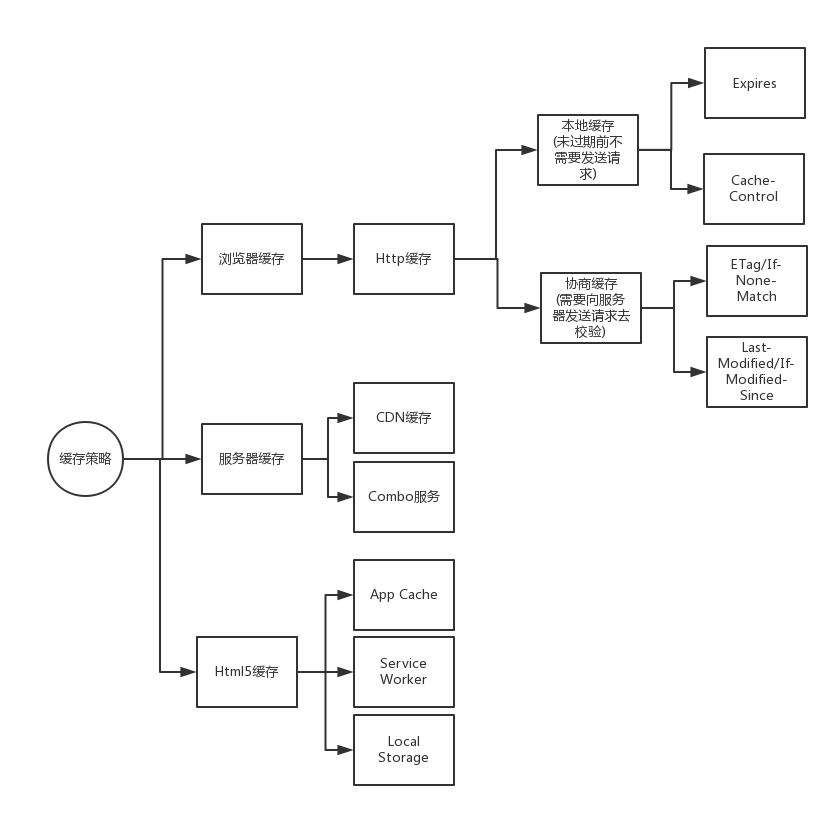
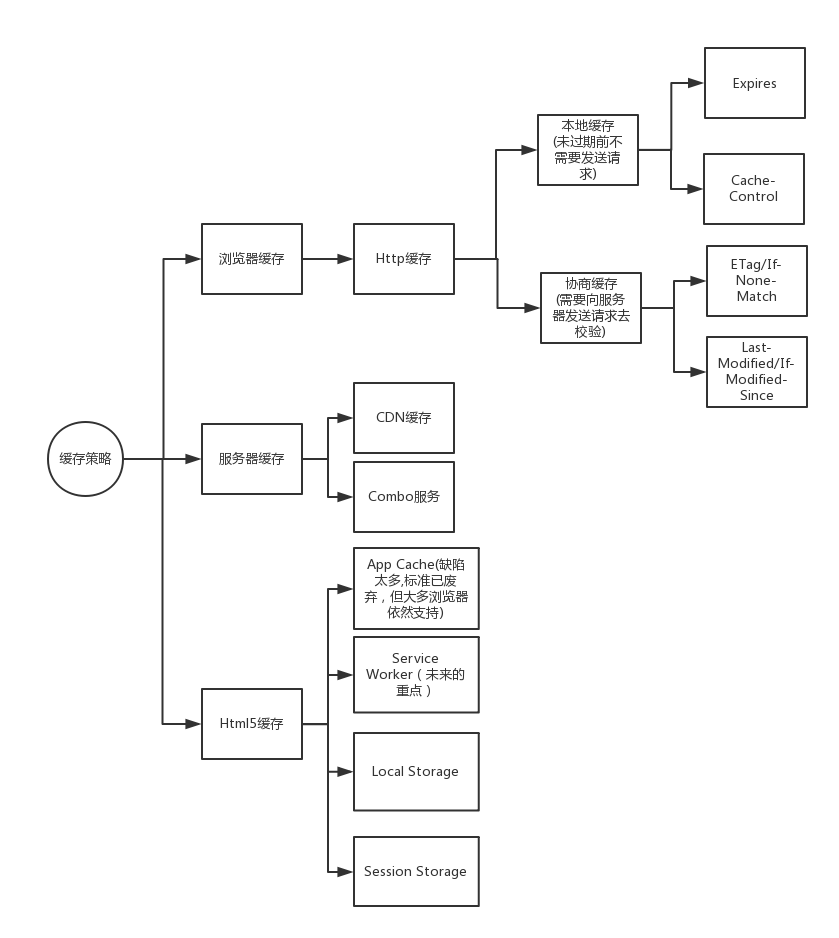
cache

diff --git a/性能优化/缓存.md b/性能优化/缓存.md
@@ -82,11 +82,14 @@ Combo服务，也就是我们在最终拼接生成页面资源引用的时候，
 4. 图像缓存时不包含版本或唯一指纹，并设置为 1 天后到期（这是Google Developers上的观点，个人认为通常可以和css采取同样的策略）。
 5. 优先使用ETag结合max-age。
 
+
 ## 其他
 [常见服务器的缓存配置样例](https://github.com/h5bp/server-configs)
 ### 200与304
 过期时间内命中缓存，浏览器不发任何 HTTP 请求，此时的状态码为200 from cache；
 如果是协商缓存则会返回304 not modified
+
+> HTML5缓存后续补充
 
 ### 参考
 [Google DevelopersHTTP缓存](https://developers.google.com/web/fundamentals/performance/optimizing-content-efficiency/http-caching?hl=zh-cn)

diff --git a/README.md b/README.md
@@ -3,7 +3,7 @@
 ### 置顶
 [error-record常见错误记录与总结](https://github.com/crowphy/blog/blob/master/error-record%E5%B8%B8%E8%A7%81%E9%94%99%E8%AF%AF%E8%AE%B0%E5%BD%95%E4%B8%8E%E6%80%BB%E7%BB%93.md)
 ### 性能相关
-[http缓存](https://github.com/crowphy/blog/blob/master/%E6%80%A7%E8%83%BD%E4%BC%98%E5%8C%96/%E7%BC%93%E5%AD%98.md)
+[缓存](https://github.com/crowphy/blog/blob/master/%E6%80%A7%E8%83%BD%E4%BC%98%E5%8C%96/%E7%BC%93%E5%AD%98.md)
 ###  html
 [HTML5新增 API](https://github.com/crowphy/blog/blob/master/html/HTML5%E6%96%B0%E5%A2%9E%20API.md)
 
